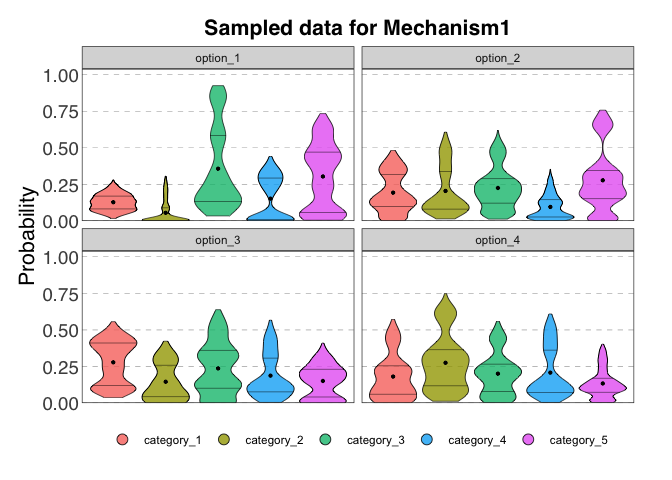
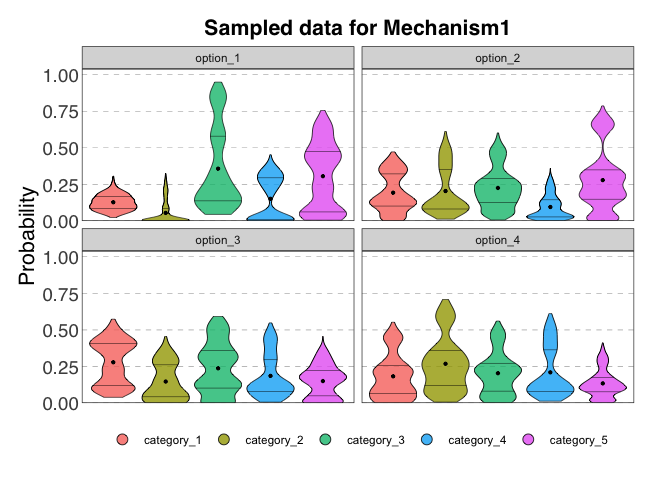
Update files after lint. review.

diff --git a/README.md b/README.md
@@ -191,14 +191,14 @@ samp_cont
 #>    id      var   value
 #>    <chr>   <chr> <dbl>
 #>  1 5ac97e0 var1      1
-#>  2 5ac97e0 var1     -2
-#>  3 5ac97e0 var1     -2
+#>  2 5ac97e0 var1      1
+#>  3 5ac97e0 var1      1
 #>  4 5ac97e0 var1     -2
-#>  5 5ac97e0 var1     -4
-#>  6 5ac97e0 var1     -2
-#>  7 5ac97e0 var1     -4
-#>  8 5ac97e0 var1     -2
-#>  9 5ac97e0 var1     -2
+#>  5 5ac97e0 var1     -2
+#>  6 5ac97e0 var1     -4
+#>  7 5ac97e0 var1      0
+#>  8 5ac97e0 var1     -4
+#>  9 5ac97e0 var1     -4
 #> 10 5ac97e0 var1      1
 #> # ℹ 17,990 more rows
 ```
@@ -210,9 +210,9 @@ summary(samp_cont)
 #> # A tibble: 3 × 7
 #>   Var      Min     Q1 Median   Mean     Q3    Max
 #>   <chr>  <dbl>  <dbl>  <dbl>  <dbl>  <dbl>  <dbl>
-#> 1 var1  -4     -2      0     -0.985  1      1    
-#> 2 var2  11.0   14.5   16.3   16.3   18.3   22.6  
-#> 3 var3   0.470  0.672  0.715  0.714  0.760  0.872
+#> 1 var1  -4     -2     -2     -1.01   1      1    
+#> 2 var2  11.0   14.5   16.3   16.3   18.4   22.7  
+#> 3 var3   0.460  0.672  0.717  0.715  0.763  0.865
 ```
 
 And plotted as violin plots:
@@ -356,16 +356,16 @@ samp_cat_unweighted
 #> # A tibble: 2,400 × 7
 #>    id      option   category_1 category_2 category_3 category_4 category_5
 #>    <chr>   <chr>         <dbl>      <dbl>      <dbl>      <dbl>      <dbl>
-#>  1 5ac97e0 option_1     0.0745          0      0.892    0.00889     0.0248
-#>  2 5ac97e0 option_1     0.0875          0      0.875    0.0129      0.0241
-#>  3 5ac97e0 option_1     0.0176          0      0.905    0.0127      0.0647
-#>  4 5ac97e0 option_1     0.0749          0      0.853    0.00418     0.0679
-#>  5 5ac97e0 option_1     0.107           0      0.838    0.0157      0.0390
-#>  6 5ac97e0 option_1     0.0538          0      0.883    0.00156     0.0619
-#>  7 5ac97e0 option_1     0.125           0      0.802    0.0139      0.0587
-#>  8 5ac97e0 option_1     0.104           0      0.858    0.00191     0.0370
-#>  9 5ac97e0 option_1     0.0524          0      0.840    0.0572      0.0503
-#> 10 5ac97e0 option_1     0.0699          0      0.875    0.00703     0.0478
+#>  1 5ac97e0 option_1     0.0553          0      0.849    0.0159      0.0798
+#>  2 5ac97e0 option_1     0.0974          0      0.842    0.0173      0.0429
+#>  3 5ac97e0 option_1     0.0844          0      0.879    0.00321     0.0332
+#>  4 5ac97e0 option_1     0.0846          0      0.869    0.00919     0.0367
+#>  5 5ac97e0 option_1     0.0995          0      0.843    0.00974     0.0482
+#>  6 5ac97e0 option_1     0.0652          0      0.882    0.00673     0.0461
+#>  7 5ac97e0 option_1     0.0648          0      0.872    0.0239      0.0394
+#>  8 5ac97e0 option_1     0.0795          0      0.837    0.00301     0.0809
+#>  9 5ac97e0 option_1     0.0751          0      0.873    0.0277      0.0240
+#> 10 5ac97e0 option_1     0.0755          0      0.853    0.00846     0.0626
 #> # ℹ 2,390 more rows
 
 samp_cat_weighted <- cat_sample_data(my_elic_cat,
@@ -376,16 +376,16 @@ samp_cat_weighted
 #> # A tibble: 1,800 × 7
 #>    id      option   category_1 category_2 category_3 category_4 category_5
 #>    <chr>   <chr>         <dbl>      <dbl>      <dbl>      <dbl>      <dbl>
-#>  1 5ac97e0 option_1    0.0159     0.00579 0.00969         0.905     0.0635
-#>  2 5ac97e0 option_1    0.0117     0.0211  0.00396         0.830     0.133 
-#>  3 5ac97e0 option_1    0.00588    0.00733 0.000652        0.942     0.0442
-#>  4 5ac97e0 option_1    0.0192     0.0203  0.0161          0.914     0.0306
-#>  5 5ac97e0 option_1    0.0667     0.0233  0.00812         0.839     0.0633
-#>  6 5ac97e0 option_1    0.0231     0.0166  0.0303          0.870     0.0599
-#>  7 5ac97e0 option_1    0.0200     0.00851 0.00000405      0.856     0.116 
-#>  8 5ac97e0 option_1    0.00413    0.0248  0.00286         0.903     0.0652
-#>  9 5ac97e0 option_1    0.0150     0.00934 0.00539         0.913     0.0573
-#> 10 5ac97e0 option_1    0.0198     0.0162  0.00480         0.874     0.0853
+#>  1 5ac97e0 option_1    0.0143     0.0222    0.00247       0.907     0.0543
+#>  2 5ac97e0 option_1    0.0506     0.00409   0.00775       0.853     0.0842
+#>  3 5ac97e0 option_1    0.00573    0.0217    0.000407      0.898     0.0738
+#>  4 5ac97e0 option_1    0.0280     0.0331    0.0287        0.793     0.117 
+#>  5 5ac97e0 option_1    0.0228     0.0127    0.00122       0.901     0.0625
+#>  6 5ac97e0 option_1    0.0123     0.0801    0.00360       0.878     0.0256
+#>  7 5ac97e0 option_1    0.0495     0.00561   0.00775       0.807     0.130 
+#>  8 5ac97e0 option_1    0.0161     0.0277    0.00144       0.856     0.0985
+#>  9 5ac97e0 option_1    0.0214     0.0119    0.00641       0.859     0.101 
+#> 10 5ac97e0 option_1    0.0266     0.0283    0.00177       0.833     0.110 
 #> # ℹ 1,790 more rows
 ```
 
@@ -394,13 +394,13 @@ And the sample summarised:
 ``` r
 summary(samp_cat_unweighted, option = "option_2")
 #> # A tibble: 5 × 7
-#>   Category        Min     Q1 Median   Mean    Q3   Max
-#>   <chr>         <dbl>  <dbl>  <dbl>  <dbl> <dbl> <dbl>
-#> 1 category_1 0.000914 0.0985 0.160  0.194  0.319 0.483
-#> 2 category_2 0.0145   0.0815 0.133  0.206  0.339 0.607
-#> 3 category_3 0.0130   0.122  0.212  0.226  0.289 0.620
-#> 4 category_4 0.000904 0.0276 0.0765 0.0963 0.145 0.354
-#> 5 category_5 0.000476 0.152  0.238  0.278  0.345 0.758
+#>   Category       Min     Q1 Median   Mean    Q3   Max
+#>   <chr>        <dbl>  <dbl>  <dbl>  <dbl> <dbl> <dbl>
+#> 1 category_1 0.00177 0.102  0.156  0.194  0.322 0.473
+#> 2 category_2 0.0128  0.0822 0.129  0.205  0.351 0.612
+#> 3 category_3 0.00735 0.128  0.208  0.226  0.290 0.603
+#> 4 category_4 0.00138 0.0280 0.0694 0.0958 0.145 0.359
+#> 5 category_5 0.00292 0.149  0.246  0.280  0.349 0.787
 ```
 
 And plotted as violin plots:
